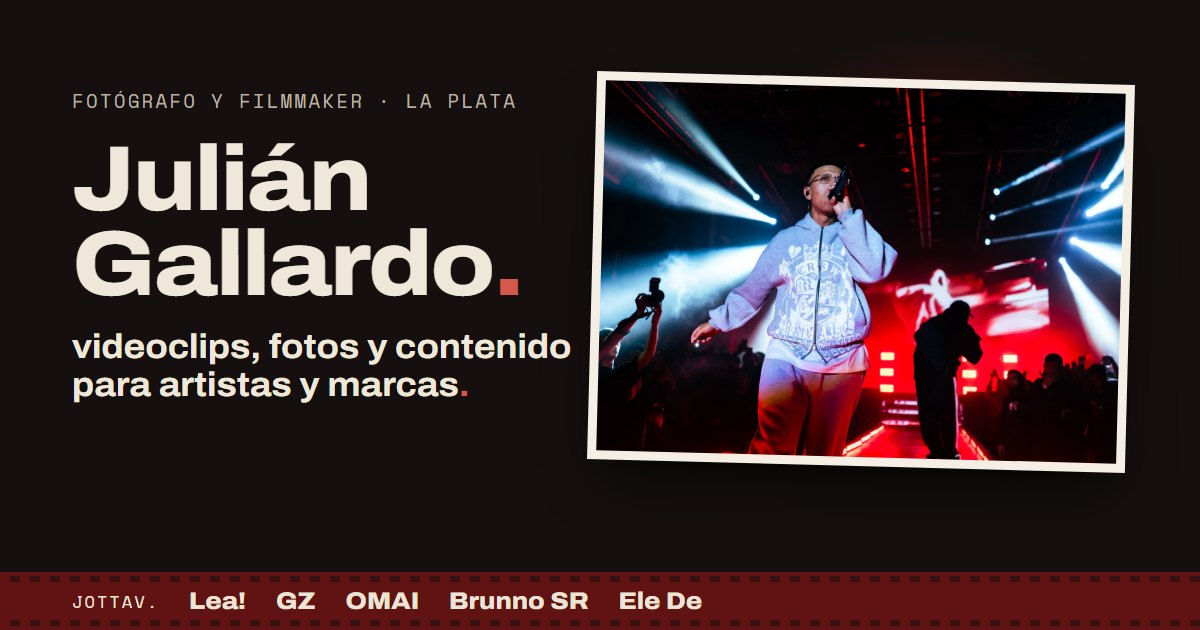
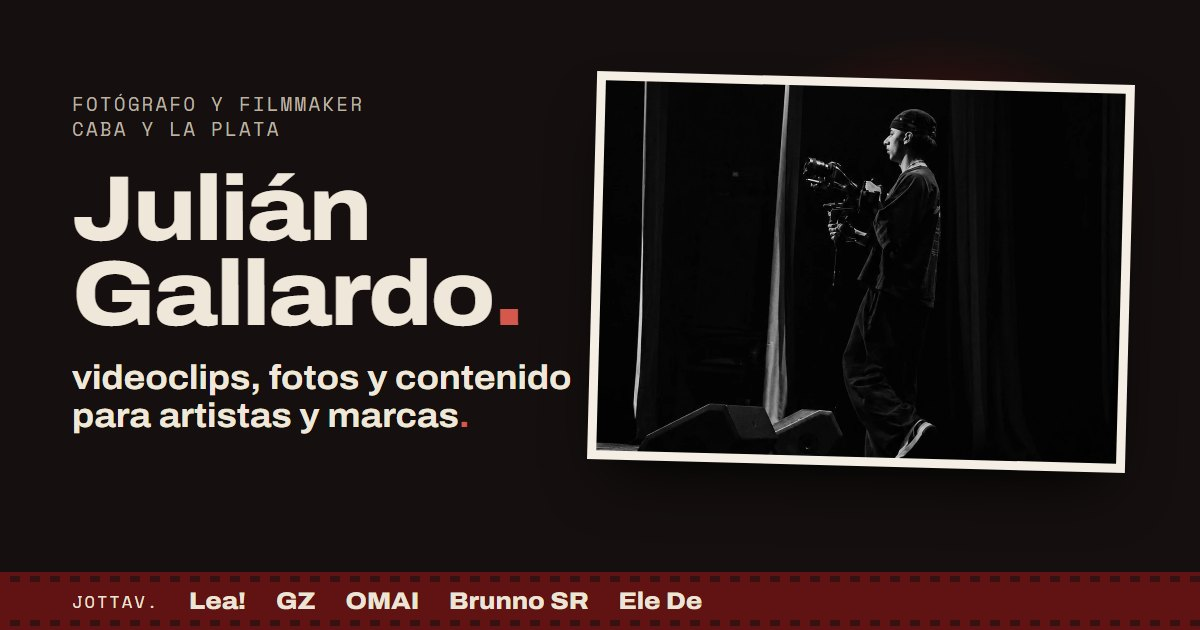
Cambios que pidió Julián en su doc (20/10)
- Portada: «Fotógrafo y filmmaker · CABA y La Plata» y su foto filmando
  con el gimbal en un escenario. El rótulo, si no entra en un renglón,
  baja por partes (sin «Plata» sola ni un punto colgando).
- Sobre mí: la foto de la calle sin la gente de atrás.
- Contacto: el sello firma al final (pisaba «hablemos.» en el celular)
  y LinkedIn en lugar de Behance.
- «Qué hago»: el título dice «producción.».
- «Lo mejor»: el texto que escribió Julián.
- Reels: Barber 43 y Ribetheo.
- Optimizador: una foto entre dos medidas de tarjeta (las de ~1000 px
  de WhatsApp) usa su ancho completo como tarjeta; antes, en retina, la
  portada y «Sobre mí» salían a 540 px estiradas.
- Imagen para compartir: el texto ya no puede pisar la foto (el script
  falla si pasa).
- Pruebas: nitidez de la portada y de «Sobre mí», y cortes del rótulo.

diff --git a/scripts/pruebas/verify.js b/scripts/pruebas/verify.js
@@ -220,7 +220,7 @@ const lum = (c) => { const m = rgbOf(c); const f = (v) => { v /= 255; return v <
         const h = a.getAttribute("href");
         if (a.target === "_blank" && !/noopener/.test(a.rel)) bad.push("sin noopener: " + h);
         if (h.startsWith("#")) { if (h.length > 1 && !document.getElementById(h.slice(1))) bad.push("ancla rota: " + h); continue; }
-        if (/^https?:/.test(h)) { ext.add(h); if (!/^https:\/\/(www\.)?(instagram\.com\/(jottavisuals|jotta\.gallardo|reels?\/[\w-]+)\/|youtube\.com\/watch\?v=[\w-]{11}$|behance\.net\/julingallardo$|wa\.me\/5492213144443$)/.test(h)) bad.push("externo raro: " + h); continue; }
+        if (/^https?:/.test(h)) { ext.add(h); if (!/^https:\/\/(www\.)?(instagram\.com\/(jottavisuals|jotta\.gallardo|reels?\/[\w-]+)\/|youtube\.com\/watch\?v=[\w-]{11}$|linkedin\.com\/in\/julian-gallardo-910a31215\/$|wa\.me\/5492213144443$)/.test(h)) bad.push("externo raro: " + h); continue; }
         if (h.startsWith("mailto:")) { if (h !== "mailto:juliangallardo249@gmail.com") bad.push("mail raro: " + h); continue; }
         const [file, anchor] = h.split("#");
         const res = await fetch(file, { method: "HEAD" }); if (!res.ok) bad.push(`${res.status} ${file}`);
@@ -459,6 +459,22 @@ const lum = (c) => { const m = rgbOf(c); const f = (v) => { v /= 255; return v <
       const p = await newPage(b, w, h);
       await p.goto(BASE + "/", { waitUntil: "networkidle0" }); await wait(2300);
       if (PLANT === "overlap") await p.evaluate(() => { document.querySelector(".reel--hero").style.bottom = "-160px"; });
+      // planta del rótulo: las partes vuelven a ser texto corrido (como antes del 20/10, cuando quedaba «Plata» sola abajo)
+      if (PLANT === "rotulo") await p.evaluate(() => { const st = document.createElement("style"); st.textContent = ".eyebrow__in{display:block!important;margin:0!important}.eyebrow__p::before{content:' · '!important;width:auto!important}"; document.head.appendChild(st); });
+      // el rótulo («Fotógrafo y filmmaker · CABA y La Plata») corta solo entre partes, y el punto de la parte que arranca
+      // un renglón queda fuera del recuadro (recortado). Se mide letra por letra: cada parte, todas sus letras en un renglón
+      const eb = await p.evaluate(() => {
+        const box = document.querySelector(".hero .eyebrow"), parts = [...box.querySelectorAll(".eyebrow__p")];
+        const tops = (sp) => { const s = [], tn = sp.firstChild; for (let i = 0; i < tn.length; i++) { const rg = document.createRange(); rg.setStart(tn, i); rg.setEnd(tn, i + 1); const rc = rg.getClientRects()[0]; if (rc && rc.width) s.push(Math.round(rc.top)); } return s; };
+        const bl = box.getBoundingClientRect().left, clip = getComputedStyle(box).overflowX === "hidden";
+        const split = parts.filter((sp) => new Set(tops(sp)).size > 1).map((sp) => sp.textContent);
+        // una parte arranca renglón si es la primera o si su primera letra está más abajo que la última de la anterior:
+        // ahí su punto (::before, dentro de su caja) tiene que quedar a la izquierda del recuadro, que lo recorta
+        const starts = parts.filter((sp, k) => k === 0 || tops(sp)[0] > tops(parts[k - 1]).slice(-1)[0]);
+        const dotVisible = starts.filter((sp) => !(clip && sp.getBoundingClientRect().left < bl - 1)).map((sp) => sp.textContent);
+        return { parts: parts.length, split, dotVisible, rows: new Set(parts.flatMap(tops)).size };
+      });
+      ok(`portada ${w}×${h}: el rótulo corta entre partes, sin punto colgando`, eb.parts >= 2 && !eb.split.length && !eb.dotVisible.length, JSON.stringify(eb));
       const r = await p.evaluate(() => {
         const reel = document.querySelector(".reel--hero").getBoundingClientRect();
         const nav = document.querySelector(".nav").getBoundingClientRect();
@@ -473,6 +489,38 @@ const lum = (c) => { const m = rgbOf(c); const f = (v) => { v /= 255; return v <
       ok(`portada ${w}×${h}: el reel no toca ningún renglón ni la barra`, r.hit === 0 && !r.underNav && r.rw <= r.vw, JSON.stringify(r));
       if (w < 800 && h >= 640 && h > w) ok(`portada ${w}×${h}: título y botones se ven sin bajar`, r.titleVisible && r.ctaVisible, `título ${r.titleVisible} · botones ${r.ctaVisible}`);
       if (h < w && h <= 500) ok(`portada acostado ${w}×${h}: el título entra en una pantalla`, r.titleVisible, `${r.titleVisible}`);
+      await p.close();
+    }
+  }
+
+  /* 9) nitidez: la foto de portada y la de «Sobre mí» no se ven estiradas en pantallas de alta densidad, salvo que la
+     original no dé para más. Hasta el 20/10, una foto de ~1000 px (las que llegan por WhatsApp) tenía su medida grande solo
+     para el zoom: el retina recibía la de 540 px estirada al doble. Se compara contra el ancho de la ORIGINAL (manifest) */
+  if (!only || only === "nitidez") {
+    const MAN = require("path").join(__dirname, "..", "..", "assets", "img", "manifest.json");
+    const man = JSON.parse(require("fs").readFileSync(MAN, "utf8"));
+    for (const [w, h, dpr] of [[390, 844, 3], [1440, 900, 2], [1920, 1080, 2]]) {
+      const p = await newPage(b, w, h, { dpr });
+      await p.goto(BASE + "/", { waitUntil: "networkidle0" });
+      for (const sel of [".print--hero img", ".about__photo img"]) {
+        // planta: la foto vuelve a ofrecer solo su medida chica (como antes del arreglo)
+        if (PLANT === "nitidez") await p.evaluate((s) => { const i = document.querySelector(s); i.srcset = i.srcset.split(",")[0]; }, sel);
+        await p.evaluate((s) => document.querySelector(s).scrollIntoView({ behavior: "instant", block: "center" }), sel);
+        await p.waitForFunction((s) => { const i = document.querySelector(s); return i.complete && i.naturalWidth > 0 && i.currentSrc; }, { timeout: 15000 }, sel);
+        await wait(400);
+        const r = await p.evaluate((s) => {
+          const i = document.querySelector(s), b = i.getBoundingClientRect(), ar = i.naturalWidth / i.naturalHeight;
+          // ojo: con srcset, naturalWidth viene dividido por la densidad elegida (da píxeles CSS, no los del archivo):
+          // el ancho real del archivo servido sale de su nombre (<id>-<ancho>w-<hash>.webp)
+          const file = i.currentSrc.split("/").pop(), m = file.match(/-(\d+)w-[0-9a-f]{8}\.webp$/);
+          // object-fit: cover → la foto se dibuja al ancho mayor entre el de la caja y el que pide su alto
+          return { nat: m ? +m[1] : 0, need: Math.round(Math.max(b.width, b.height * ar) * devicePixelRatio), file };
+        }, sel);
+        const id = r.file.replace(/-\d+w-[0-9a-f]{8}\.webp$/, ""), src = man[id] ? man[id].w : 0;
+        const cap = Math.min(r.need, src || r.need);
+        ok(`nitidez ${w}px @${dpr}x ${sel.split(" ")[0]}: la foto no se estira de más`, r.nat >= cap * 0.9,
+          `${r.nat} px servidos para ${r.need} px de pantalla · original ${src} px (${r.file})${r.need > src * 1.1 ? " · la original no alcanza para esta pantalla" : ""}`);
+      }
       await p.close();
     }
   }

diff --git a/content.js b/content.js
@@ -56,21 +56,21 @@ const SITE = {
   role: "Fotógrafo y filmmaker",
   lang: "es-AR",
   year: 2026,
-  location: "La Plata, Buenos Aires",
-  description: "Julián Gallardo (jottav.), fotógrafo y filmmaker de La Plata: videoclips, contenido para artistas y marcas, y fotos de shows, moda y casamientos.",
+  // Julián (20/10): «agregale CABA … que se entienda que trabajo en capital también y más que nada principalmente». Vive en La Plata.
+  location: "CABA y La Plata",
+  description: "Julián Gallardo (jottav.), fotógrafo y filmmaker en CABA y La Plata: videoclips, contenido para artistas y marcas, y fotos de shows, moda y casamientos.",
 };
 
 /* ---------- portada ---------- */
 const HERO = {
-  eyebrow: "Fotógrafo y filmmaker · La Plata",
+  eyebrow: "Fotógrafo y filmmaker · CABA y La Plata",
   // se escribe en minúscula y termina con el punto bordó, como su logo «jottav.»
   title: ["videoclips, fotos", "y contenido para", "artistas y marcas"],
   lead: "Dirijo, filmo, monto y coloreo videoclips, y fotografío shows, moda, producto y casamientos, buscando que cada imagen tenga identidad.",
-  // v2 «En vivo»: dos pantallas verticales, una foto y el showreel. La foto va a ser la de Julián filmando con el gimbal en un
-  // escenario (Braian la pasó el 19/10, pegada en el chat: falta el archivo).
-  // CAMBIAR DESPUÉS: con el archivo en «1 CARPETA PARA BRAI», declararla en IMAGES («julian-escenario») y ponerla acá
-  image: "vivo-humo",                    // mientras tanto, un show (vertical)
-  focus: { m: "50% 35%", d: "50% 35%" }, // encuadre: m = celular, d = escritorio
+  // v2 «En vivo»: dos pantallas verticales, una foto y el showreel. La foto es la de Julián filmando con el gimbal en un
+  // escenario (la pidió él en su doc; el archivo llegó el 20/10)
+  image: "julian-escenario",
+  focus: { m: "50% 70%", d: "50% 70%" }, // encuadre: m = celular, d = escritorio
   video: "hero-showreel",                // montaje vertical de sus trabajos de video (ver SHOWREEL)
   caption: "Showreel: Aurelius, Aryes y Zambia, 2025–2026",
 };
@@ -94,8 +94,9 @@ const STRIP = ["Lea!", "GZ", "OMAI", "Brunno SR", "Ele De", "Klan", "Esperando e
            boda-alianzas (grano de la iglesia) y vivo-co2 (humo) dan PSNR bajo por la textura, y a ojo son iguales al original (19/10)
    crop = (opcional) recorte en px del original, antes de achicar: saca el subtítulo de la letra quemado en un fotograma */
 const IMAGES = {
-  /* — Julián (Braian, 20/10: «perfil de Julián para su sobre mí») — */
-  "julian-calle":   { g: "julian", f: "perfil.jpeg", alt: "Julián Gallardo en blanco y negro, en una calle con gente, sonríe mientras saca una foto con la cámara contra la cara." },
+  /* — Julián: las dos que pidió en su doc (20/10). La de la calle es perfil.jpeg sin la gente de atrás (la sacó él) — */
+  "julian-escenario": { g: "julian", f: "principal.jpeg", alt: "Julián Gallardo en blanco y negro, de perfil en un escenario a oscuras, camina filmando con una cámara en un gimbal, entre los telones y dos monitores de piso." },
+  "julian-calle":   { g: "julian", f: "secundaria.jpeg", alt: "Julián Gallardo en blanco y negro, en una calle con niebla, sonríe mientras saca una foto con la cámara contra la cara." },
 
   /* — En vivo (2026) — */
   "vivo-abanico":   { g: "vivo", f: "DSC08900.jpg", alt: "Un rapero con buzo gris canta en la pasarela de un escenario grande, entre un abanico de haces de luz blanca y una pantalla roja; adelante, otro fotógrafo levanta la cámara." },
@@ -263,6 +264,10 @@ const REELS = [
   { kind: "Entrevistas", account: "@valeenpretto", title: "Fans de Oney en su show (4 reels)", href: "https://www.instagram.com/reel/DaBeODJuIGS/", note: null,
     more: ["https://www.instagram.com/reel/DZ-RGLQJj0J/", "https://www.instagram.com/reel/DZ6Kz7FPfEp/", "https://www.instagram.com/reel/DZ5OvvBA8t7/"] },
   { kind: "Deportivo", account: "@gimnasio.mda", title: "Clase de Power Jump", href: "https://www.instagram.com/reels/DUVU7fpDbdS/", note: null },
+  // los dos que sumó Julián el 20/10. Roles según cada posteo: el de Barber 43 lo acredita con «🎥 @jotta.gallardo @jottavisuals»
+  // (16/02/2026); el de Ribetheo dice «Grabado y editado por @leagallardo4 y @jotagallardo.stj» (13/07/2024)
+  { kind: "Barbería", account: "@barber.43", title: "Barber 43, club de barbería en Bariloche", href: "https://www.instagram.com/reel/DU1hFJ2k2uv/", note: "Cámara" },
+  { kind: "Barbería", account: "@ribetheo_", title: "Ribetheo, barbero", href: "https://www.instagram.com/reel/C9XjRblsVwx/", note: "Cámara y montaje" },
 ];
 
 /* ---------- categorías del filtro de trabajos ---------- */
@@ -378,7 +383,7 @@ for (const p of PROJECTS) for (const id of p.more || []) if (!mainImages.has(id)
 /* ---------- sobre mí ---------- */
 /* Texto de Julián (su «about me»), con los clichés que él mismo pidió sacar. Los datos son los suyos. */
 const ABOUT = {
-  photo: "julian-calle",  // la eligió Braian (20/10)
+  photo: "julian-calle",  // la pidió Julián (20/10)
   photoPos: "54% 32%",    // la cara y la cámara, en el recorte 3:4
   title: "sobre mí",
   paragraphs: [
@@ -408,7 +413,8 @@ const TIMELINE = [
 
 /* ---------- qué hago ---------- */
 const SERVICES = {
-  title: "qué hago",
+  // Julián (20/10): que no diga «qué hago» dos veces (el rótulo de arriba ya lo dice); la palabra la eligió Braian
+  title: "producción",
   lead: "Puedo hacer todo el proceso o sumarme en una parte: la cámara, la luz, el montaje o el color.",
   items: [
     { n: "01", title: "Videoclips", img: "clip-ssee67iqlw", list: ["Idea y dirección", "Cámara y luz", "Montaje", "Corrección de color"] },
@@ -443,8 +449,8 @@ const CONTACT = {
     { key: "instagram", label: "Instagram", detail: "@jottavisuals", href: "https://www.instagram.com/jottavisuals/" },
     { key: "email", label: "Mail", detail: "juliangallardo249@gmail.com", href: "mailto:juliangallardo249@gmail.com", copy: "juliangallardo249@gmail.com" },
     { key: "instagram2", label: "Instagram personal", detail: "@jotta.gallardo", href: "https://www.instagram.com/jotta.gallardo/" },
-    // Braian (19/10): «hacelo» (enlazar su Behance)
-    { key: "behance", label: "Behance", detail: "julingallardo", href: "https://www.behance.net/julingallardo" },
+    // Julián (20/10): «sacale el contacto de Behance y cambialo por este de LinkedIn» (sin el ?isSelfProfile del link que pasó)
+    { key: "linkedin", label: "LinkedIn", detail: "Julián Gallardo", href: "https://www.linkedin.com/in/julian-gallardo-910a31215/" },
   ],
 };
 

diff --git a/assets/css/site.css b/assets/css/site.css
@@ -68,6 +68,12 @@ ul, ol { padding: 0; list-style: none; }
   font-family: var(--f); font-weight: 600; letter-spacing: -0.02em; line-height: .98; }
 .h2 { font-size: clamp(2.5rem, 8.4vw, 5.4rem); margin: .2em 0 .3em; }
 .kicker, .eyebrow { display: inline-block; font-size: 12.5px; font-weight: 600; letter-spacing: .16em; text-transform: uppercase; color: var(--kick); }
+/* rótulo en partes («Fotógrafo y filmmaker» · «CABA y La Plata»): cada parte lleva su punto adelante y la fila arranca
+   un punto más a la izquierda, fuera del recuadro, que lo recorta. Así el punto del primer renglón y el de una parte que
+   bajó de renglón no se ven, y nunca queda una palabra sola abajo («Plata») ni un punto colgando */
+.eyebrow--parts { --sep: 1.3em; overflow: hidden; vertical-align: top; }   /* 1.3em = el ancho de « · » con este tracking */
+.eyebrow__in { display: flex; flex-wrap: wrap; margin-left: calc(-1 * var(--sep)); }
+.eyebrow__p::before { content: "·"; content: "·" / ""; display: inline-block; width: var(--sep); text-align: center; }
 .head { display: flex; flex-wrap: wrap; justify-content: space-between; align-items: flex-end; gap: 1.2rem 2rem; margin-bottom: clamp(1.8rem, 4vw, 3rem); }
 .head__lead { max-width: 40em; color: var(--fg2); font-size: clamp(1rem, 1.25vw, 1.1rem); }
 .head__tools { display: flex; align-items: center; gap: .6rem; }
@@ -165,8 +171,10 @@ html.menu-open, html.is-locked { overflow: hidden; }
 }
 .hero__grid { position: relative; z-index: 1; display: grid; gap: clamp(1.4rem, 4vw, 3rem); align-items: center; }
 /* las dos pantallas verticales: la foto y el showreel */
-/* celular: el alto de las pantallas sale de la cuenta para que título y botones entren sin bajar en 360×640 y 375×667 */
-.hero__screens { --h: min(30svh, 253px); position: relative; display: flex; align-items: flex-start; gap: 10px; flex-wrap: wrap; order: -1; }
+/* celular: el alto de las pantallas sale de la cuenta para que título y botones entren sin bajar en 360×640 y 375×667.
+   100svh - 468px = lo que queda después de la barra, el rótulo (dos renglones desde que dice «CABA y La Plata»), el título,
+   la bajada y los botones en 360 px; manda solo en pantallas de menos de ~670 px de alto, y nunca baja del 27svh */
+.hero__screens { --h: min(30svh, 253px, max(100svh - 468px, 27svh)); position: relative; display: flex; align-items: flex-start; gap: 10px; flex-wrap: wrap; order: -1; }
 .screen { position: relative; margin: 0; overflow: hidden; border-radius: var(--radius); background: var(--k2); box-shadow: 0 30px 70px -28px rgba(0, 0, 0, .9); }
 .print--hero { height: var(--h); aspect-ratio: 3 / 4; }
 .print--hero img { width: 100%; height: 100%; object-fit: cover; object-position: var(--focus-m); }
@@ -209,7 +217,7 @@ html.menu-open, html.is-locked { overflow: hidden; }
 @keyframes up { from { transform: translateY(105%); } to { transform: none; } }
 @keyframes rise { from { opacity: 0; transform: translateY(14px); } to { opacity: 1; transform: none; } }
 @keyframes switchon { 0% { opacity: 0; filter: brightness(2.6); } 12% { opacity: 1; } 30% { filter: brightness(1.5); } 100% { opacity: 1; filter: none; } }
-@keyframes stamp { from { opacity: 0; transform: scale(1.7) rotate(-16deg); } 70% { opacity: 1; } to { opacity: 1; transform: none; } }
+@keyframes stamp { from { opacity: 0; transform: scale(1.7) rotate(-16deg); } 70% { opacity: 1; } to { opacity: 1; transform: rotate(var(--tilt, 0deg)); } }
 @media (prefers-reduced-motion: no-preference) {
   .js:not(.no-app) .hero__in { animation: up .9s var(--ease) backwards; animation-delay: calc(.15s + var(--i) * .1s); }
   .js:not(.no-app) .hero__lead, .js:not(.no-app) .hero__cta, .js:not(.no-app) .hero .eyebrow { animation: rise .8s var(--ease) .55s backwards; }
@@ -376,11 +384,12 @@ html.menu-open, html.is-locked { overflow: hidden; }
 /* ---------- contacto ---------- */
 .contact { overflow: clip; }
 .contact__inner { position: relative; }
-.contact__stamp { position: absolute; right: var(--gutter); top: -1rem; width: clamp(110px, 16vw, 200px); height: auto; padding: 8px; background: var(--b); border-radius: 12px; transform: rotate(8deg);
+.contact__end { display: flex; align-items: center; justify-content: space-between; gap: 1rem; max-width: 660px; margin-top: 1.8rem; }
+.contact__stamp { --tilt: 8deg; flex: none; width: clamp(96px, 11vw, 150px); height: auto; padding: 8px; background: var(--b); border-radius: 12px; transform: rotate(var(--tilt));
   box-shadow: 0 20px 40px -18px rgba(0, 0, 0, .6); }
 @media (prefers-reduced-motion: no-preference) {
-  .js:not(.no-app) .contact__inner:has(.contact__title:not(.is-in)) .contact__stamp { opacity: 0; transform: scale(1.7) rotate(-10deg); }
-  .js:not(.no-app) .contact__inner:has(.contact__title.is-in) .contact__stamp { animation: stamp .6s cubic-bezier(.2, 1.4, .4, 1) .25s backwards; }
+  .js:not(.no-app) .contact__end:not(.is-in) .contact__stamp { opacity: 0; transform: scale(1.7) rotate(-10deg); }
+  .js:not(.no-app) .contact__end.is-in .contact__stamp { animation: stamp .6s cubic-bezier(.2, 1.4, .4, 1) .25s backwards; }
 }
 .contact__title { font-size: clamp(3.2rem, 15vw, 10.5rem); font-weight: 700; margin: .25em 0 .3em; line-height: .9; }
 .contact__lead { max-width: 30em; font-size: clamp(1.02rem, 1.5vw, 1.2rem); }
@@ -397,7 +406,7 @@ html.menu-open, html.is-locked { overflow: hidden; }
 .copy[hidden] { display: none; }
 .copy.is-done { background: var(--btn-bg); color: var(--btn-fg); }
 @media not all and (hover: hover) and (pointer: fine) { .copy, .copy:not([hidden]) { display: none; } .chan--split .btn { border-radius: 999px; } }
-.contact__meta { margin-top: 1.8rem; font-size: 12.5px; font-weight: 600; letter-spacing: .16em; text-transform: uppercase; }
+.contact__meta { font-size: 12.5px; font-weight: 600; letter-spacing: .16em; text-transform: uppercase; }
 
 /* ---------- footer ---------- */
 .footer { padding-block: 0 2rem; overflow: hidden; }

diff --git a/scripts/templates.js b/scripts/templates.js
@@ -134,6 +134,8 @@ function heroHTML(C, M, V) {
   const srcset = vs.map((v) => `assets/img/${v.file} ${v.w}w`).join(", ");
   const focus = { m: "50% 40%", d: "50% 40%", ...(HERO.focus || {}) };
   const lines = HERO.title.map((t, i) => `<span class="hero__line" style="--i:${i}"><span class="hero__in">${esc(t)}${i === HERO.title.length - 1 ? '<span class="dot" aria-hidden="true">.</span>' : ""}</span></span>`).join(" ");
+  // el rótulo, en partes (las separa « · » en content.js): si no entra en un renglón, la parte baja entera y sin el punto (CSS)
+  const eyebrow = HERO.eyebrow.split(" · ").map((t) => `<span class="eyebrow__p">${esc(t)}</span>`).join(" ");
   let reel = "";
   if (HERO.video) {
     const v = videoOf(V, HERO.video);
@@ -152,7 +154,7 @@ function heroHTML(C, M, V) {
     <div class="beams" aria-hidden="true"><i></i><i></i><i></i></div>
     <div class="wrap hero__grid">
       <div class="hero__text">
-        <p class="eyebrow">${esc(HERO.eyebrow)}</p>
+        <p class="eyebrow eyebrow--parts"><span class="eyebrow__in">${eyebrow}</span></p>
         <h1 class="hero__title">${lines}</h1>
         <p class="hero__lead">${esc(HERO.lead)}</p>
         <div class="hero__cta">
@@ -229,7 +231,7 @@ function featuredHTML(C, M, V) {
         <div>
           <p class="kicker">Selección</p>
           <h2 class="h2">${titled("lo mejor")}</h2>
-          <p class="head__lead">Videos y fotos elegidos. Todo lo demás —${C.CLIPS.length} videoclips, video para marcas y ${nPhotos} fotos— está en <a class="link" href="trabajos.html">Trabajos</a>.</p>
+          <p class="head__lead">Una selección de videos y fotografías. El resto de mis trabajos —${C.CLIPS.length} videoclips, videos para marcas y ${nPhotos} fotografías— está disponible en <a class="link" href="trabajos.html">Trabajos</a>.</p>
         </div>
         <div class="head__tools">
           ${anyVideo ? `<button class="toggle" type="button" data-toggle="picks" hidden><i aria-hidden="true"></i><span class="toggle__t">Pausar videos</span></button>` : ""}
@@ -330,6 +332,7 @@ function toolsHTML(C) {
 }
 
 /* ---------- contacto ---------- */
+/* El sello firma al final, al lado de la ubicación: arriba del título lo tapaba en el celular (Julián, 20/10). */
 function contactHTML(C) {
   const { CONTACT, SITE } = C;
   const chans = CONTACT.channels.map((c) => {
@@ -343,7 +346,6 @@ function contactHTML(C) {
   return `
   <section class="section contact" id="contacto" data-tone="accent">
     <div class="wrap contact__inner">
-      <img class="contact__stamp" src="assets/brand/sello.webp" width="166" height="139" alt="" aria-hidden="true" loading="lazy">
       <p class="kicker">Contacto</p>
       <h2 class="contact__title" data-reveal>${titled(CONTACT.title)}</h2>
       <p class="contact__lead">${esc(CONTACT.lead)}</p>
@@ -351,7 +353,10 @@ function contactHTML(C) {
           ${chans}
       </div>
       <p class="sr-only" id="copyStatus" role="status" aria-live="polite"></p>
-      <p class="contact__meta">${SITE.location ? esc(SITE.location) : `Ubicación ${pend()}`}</p>
+      <div class="contact__end" data-reveal>
+        <p class="contact__meta">${SITE.location ? esc(SITE.location) : `Ubicación ${pend()}`}</p>
+        <img class="contact__stamp" src="assets/brand/sello.webp" width="166" height="139" alt="" aria-hidden="true" loading="lazy">
+      </div>
     </div>
   </section>`;
 }
@@ -506,7 +511,7 @@ function reelsListHTML(C, num) {
         <header class="label label--wide">
           <p class="label__k"><span class="label__n">${num}</span>Instagram</p>
           <h2 class="label__t">${titled("reels para redes")}</h2>
-          <p class="label__text">Contenido vertical que filmé para cuentas de artistas, bailarinas y un gimnasio.</p>
+          <p class="label__text">Contenido vertical que filmé para cuentas de artistas, bailarinas, un gimnasio y barberías.</p>
         </header>
         <ol class="igs">${rows}
         </ol>

diff --git a/scripts/og/make-og.js b/scripts/og/make-og.js
@@ -35,7 +35,8 @@ const esc = (s) => String(s).replace(/&/g, "&amp;").replace(/</g, "&lt;").replac
 const tokens = {
   HERO_URL: pathToFileURL(heroFile).href,
   HERO_POS: (C.HERO.focus && C.HERO.focus.d) || "50% 45%",
-  EYEBROW: esc(C.HERO.eyebrow),
+  // en partes, como en la portada: si no entra en un renglón, baja la parte entera y sin el punto colgando
+  EYEBROW: C.HERO.eyebrow.split(" · ").map((t) => `<span>${esc(t)}</span>`).join(""),
   NAME: esc(C.SITE.name),
   TAGLINE: esc(C.HERO.title.join(" ")),
   BRAND: esc(C.SITE.brand),
@@ -60,6 +61,18 @@ fs.writeFileSync(tmp, html);
     }));
     if (!check.img) throw new Error("la foto de portada no cargó en la imagen (¿ruta o archivo roto?)");
     if (!check.fonts.some((f) => /Archivo/.test(f))) throw new Error("no cargó la tipografía Archivo (¿sin conexión a Google Fonts?)");
+    // ningún renglón de texto puede pisar la foto (el 20/10, con «CABA y La Plata», el rótulo se metía en su esquina).
+    // Se miden los renglones (Range), no las cajas: la caja de un título ocupa todo el ancho aunque el texto sea corto
+    const clash = await page.evaluate(() => {
+      const pr = document.querySelector(".print").getBoundingClientRect(), out = new Set();
+      for (const el of document.querySelectorAll(".txt .eb, .txt h1, .txt p")) {
+        const rg = document.createRange(); rg.selectNodeContents(el);
+        for (const r of rg.getClientRects())
+          if (r.width > 1 && r.right > pr.left && r.left < pr.right && r.bottom > pr.top && r.top < pr.bottom) out.add(`«${el.textContent.trim().slice(0, 40)}»`);
+      }
+      return [...out];
+    });
+    if (clash.length) throw new Error(`el texto pisa la foto: ${clash.join(", ")}`);
     const out = path.join(ROOT, "assets", "og.jpg");
     await page.screenshot({ path: out, type: "jpeg", quality: 86 });
     console.log(`\n✓ assets/og.jpg  (${(fs.statSync(out).size / 1024).toFixed(0)} KB)  · foto: ${card.file} · fuentes: ${[...new Set(check.fonts)].join(", ")}\n`);

diff --git a/scripts/og/og.template.html b/scripts/og/og.template.html
@@ -8,8 +8,10 @@ html,body{margin:0;width:1200px;height:630px;overflow:hidden;background:#15100F}
   background:radial-gradient(closest-side at 78% 30%,rgba(150,30,26,.55),rgba(97,19,19,.25) 55%,transparent 80%),#15100F}
 .print{position:absolute;right:70px;top:78px;width:520px;height:370px;padding:9px;background:#F4EEE4;box-shadow:0 30px 60px -20px rgba(0,0,0,.9);transform:rotate(1.5deg)}
 .print img{width:100%;height:100%;object-fit:cover;object-position:{{HERO_POS}};display:block}
-.txt{position:absolute;left:72px;top:92px;width:560px}
-.eb{font:400 19px/1 "Space Mono",monospace;letter-spacing:.12em;text-transform:uppercase;color:#BDB2A2}
+.txt{position:absolute;left:72px;top:92px;width:500px}
+.eb{font:400 19px/1.3 "Space Mono",monospace;letter-spacing:.12em;text-transform:uppercase;color:#BDB2A2;overflow:hidden}
+.eb i{display:flex;flex-wrap:wrap;margin-left:-2.16em;font-style:normal}
+.eb span::before{content:"·";display:inline-block;width:2.16em;text-align:center}
 h1{font-weight:800;font-stretch:112%;font-size:92px;line-height:.92;letter-spacing:-.018em;margin:26px 0 22px}
 p{font-weight:700;font-stretch:108%;font-size:34px;line-height:1.12;margin:0;color:#EFE7D9}
 .dot{color:#D4584C}
@@ -20,6 +22,6 @@ p{font-weight:700;font-stretch:108%;font-size:34px;line-height:1.12;margin:0;col
 .strip b{font:400 17px/1 "Space Mono",monospace;letter-spacing:.12em;text-transform:uppercase}
 </style></head><body><div class="card">
 <div class="print"><img src="{{HERO_URL}}"></div>
-<div class="txt"><div class="eb">{{EYEBROW}}</div><h1>{{NAME}}<span class="dot">.</span></h1><p>{{TAGLINE}}<span class="dot">.</span></p></div>
+<div class="txt"><div class="eb"><i>{{EYEBROW}}</i></div><h1>{{NAME}}<span class="dot">.</span></h1><p>{{TAGLINE}}<span class="dot">.</span></p></div>
 <div class="strip"><b>{{BRAND}}.</b>{{STRIP}}</div>
 </div></body></html>

diff --git a/scripts/build.js b/scripts/build.js
@@ -97,10 +97,11 @@ function seoHTML(page = "home") {
     if (og) lines.push(`<meta property="og:image" content="${SITE_URL}/assets/og.jpg" />`,
                        `<meta property="og:image:width" content="1200" />`, `<meta property="og:image:height" content="630" />`,
                        `<meta property="og:image:alt" content="${esc(C.IMAGES[HERO.image].alt)}" />`);
-    const sameAs = C.CONTACT.channels.filter((c) => /instagram|behance/.test(c.key) && c.href).map((c) => c.href);
+    const sameAs = C.CONTACT.channels.filter((c) => /instagram|linkedin|behance/.test(c.key) && c.href).map((c) => c.href);
+    // SITE.location es donde trabaja (CABA y La Plata), no donde vive: workLocation
     const ld = { "@context": "https://schema.org", "@type": "Person", name: SITE.name, alternateName: SITE.brand + ".",
                  jobTitle: SITE.role, url: SITE_URL + "/", ...(sameAs.length ? { sameAs } : {}),
-                 ...(SITE.location ? { homeLocation: { "@type": "Place", name: SITE.location } } : {}) };
+                 ...(SITE.location ? { workLocation: { "@type": "Place", name: SITE.location } } : {}) };
     if (page === "home") lines.push(`<script type="application/ld+json">${JSON.stringify(ld)}</script>`);
   } else {
     lines.push(`<!-- ${T.PEND.toUpperCase()}: canonical, og:url, og:image y JSON-LD necesitan el dominio. Compilá con SITE_URL=https://… -->`);

diff --git a/scripts/optimize-img.js b/scripts/optimize-img.js
@@ -69,6 +69,9 @@ function pickVariants(dw, dh, lite = false) {
   }
   let cards = t.card.filter((w) => w <= dw);
   if (!cards.length) cards = [dw];
+  // entre dos medidas de tarjeta (las que llegan por WhatsApp, ~1000 px; los fotogramas de YouTube, 1280), el original entero
+  // es la tarjeta grande. Antes quedaba solo para el zoom, y en un retina la portada y «Sobre mí» se veían en 540 px estirados
+  if (t.card.some((w) => w > dw) && dw > cards[cards.length - 1] * 1.1) cards.push(dw);
   const out = cards.map((w) => ({ w, role: "card" }));
   const top = cards[cards.length - 1];
   if (t.big <= dw && t.big > top * 1.1) out.push({ w: t.big, role: "big" });

diff --git a/DESARROLLO.md b/DESARROLLO.md
@@ -58,10 +58,12 @@ Se prueba con puppeteer-core y **chrome-headless-shell** (nunca Edge), con el si
 ```
 npm i --no-save puppeteer-core
 node scripts/pruebas/verify.js http://localhost:5181            # la batería completa
-node scripts/pruebas/verify.js http://localhost:5181 --only=cinta   # una sección: anchos, todas, sinjs, teclado, contraste, links, interaccion, red, v2, cinta, portada
+node scripts/pruebas/verify.js http://localhost:5181 --only=cinta   # una sección: anchos, todas, sinjs, teclado, contraste, links, interaccion, red, v2, cinta, portada, nitidez
 node scripts/pruebas/verify.js http://localhost:5181 --plant=404 --only=anchos   # rompe algo a propósito: tiene que fallar
 node scripts/pruebas/alturas.js http://localhost:5181           # alto de cada página en 320/375/768/1440/1920
 node scripts/pruebas/shots.js http://localhost:5181/ 375 812 cel  # capturas por tramos (en la carpeta temporal)
 ```
 
-La batería cubre 5 anchos, sin JS, `app.js` bloqueado, movimiento reducido, teclado, contraste calculado, links, menú, filtro, visor con zoom, videoclips, reproductor, copiar (mail y WhatsApp), peso en la red (y que la foto de portada se baje una sola vez), las historias de «lo mejor» (flechas, videos que arrancan solos, barra de scroll, arrastrar y soltar sin abrir la tarjeta, el clic normal sí), la cinta de los videos y el choque del reel con el texto en 13 tamaños. Plantas posibles: `404`, `overflow`, `contrast`, `focus`, `overlap`, `cinta`.
+La batería cubre 5 anchos, sin JS, `app.js` bloqueado, movimiento reducido, teclado, contraste calculado, links, menú, filtro, visor con zoom, videoclips, reproductor, copiar (mail y WhatsApp), peso en la red (y que la foto de portada se baje una sola vez), las historias de «lo mejor» (flechas, videos que arrancan solos, barra de scroll, arrastrar y soltar sin abrir la tarjeta, el clic normal sí), la cinta de los videos el choque del reel con el texto en 13 tamaños, el rótulo de la portada (corta entre partes, sin punto colgando) y la nitidez de la foto de portada y la de «Sobre mí» en pantallas de alta densidad. Plantas posibles: `404`, `overflow`, `contrast`, `focus`, `overlap`, `cinta`, `rotulo`, `nitidez`.
+
+Ojo con el puerto: si ya hay un `serve.js` escuchando, puede ser el de otro portfolio. Antes de probar, pedir `/` y mirar el `<title>`.

diff --git a/README.md b/README.md
@@ -1,6 +1,6 @@
 # Portfolio de Julián Gallardo (jottav.)
 
-Sitio personal de Julián Gallardo, fotógrafo y filmmaker de La Plata. **Sitio:** [julian-gallardo.netlify.app](https://julian-gallardo.netlify.app/)
+Sitio personal de Julián Gallardo, fotógrafo y filmmaker en CABA y La Plata. **Sitio:** [julian-gallardo.netlify.app](https://julian-gallardo.netlify.app/)
 
 ## Qué es
 
@@ -8,12 +8,12 @@ Un portfolio para mostrar sus videoclips, su video para marcas y su fotografía 
 
 ## Qué tiene
 
-- Portada con una foto de show y su showreel vertical en bucle: sus dos oficios en el primer pantallazo.
+- Portada con una foto suya filmando en un escenario y su showreel vertical en bucle: sus dos oficios en el primer pantallazo.
 - «Lo mejor»: los trabajos elegidos como historias que se deslizan de costado; los videos arrancan solos al verse.
 - Página de trabajos con filtro: 19 videoclips con su rol (se ven en el sitio), video para marcas, reels para redes y 340 fotos en 8 series (primero las elegidas y, abajo, «Ver las N fotos más»).
 - Visor de fotos con zoom y los datos de cada toma (diafragma, velocidad, ISO y focal).
 - Sobre mí con su trayectoria, qué hace y con qué herramientas trabaja.
-- Contacto por WhatsApp, Instagram, mail y Behance, con botón para copiar.
+- Contacto por WhatsApp, Instagram, mail y LinkedIn, con botón para copiar.
 - Identidad «En vivo»: el sitio como un show en vertical, con sus colores (bordó, beige y negro), la letra de su logo, haces de luz, un flash cuando aparece cada foto y los videos en cinta de película.
 
 ## Tecnologías
